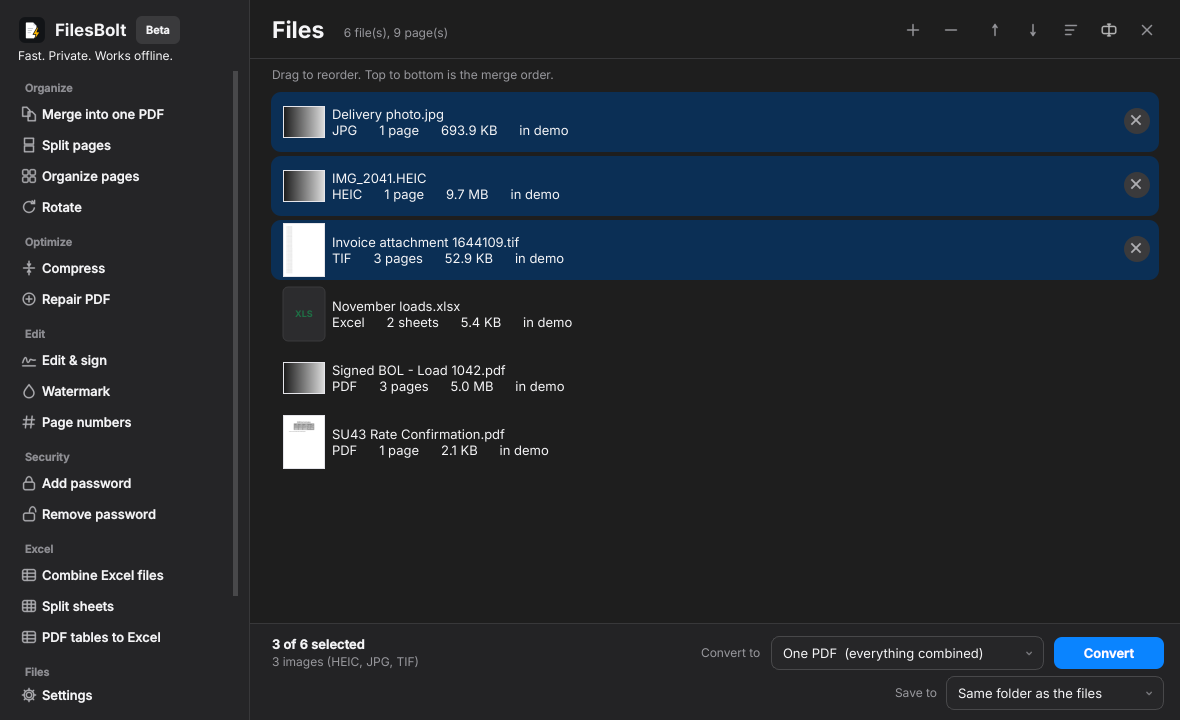
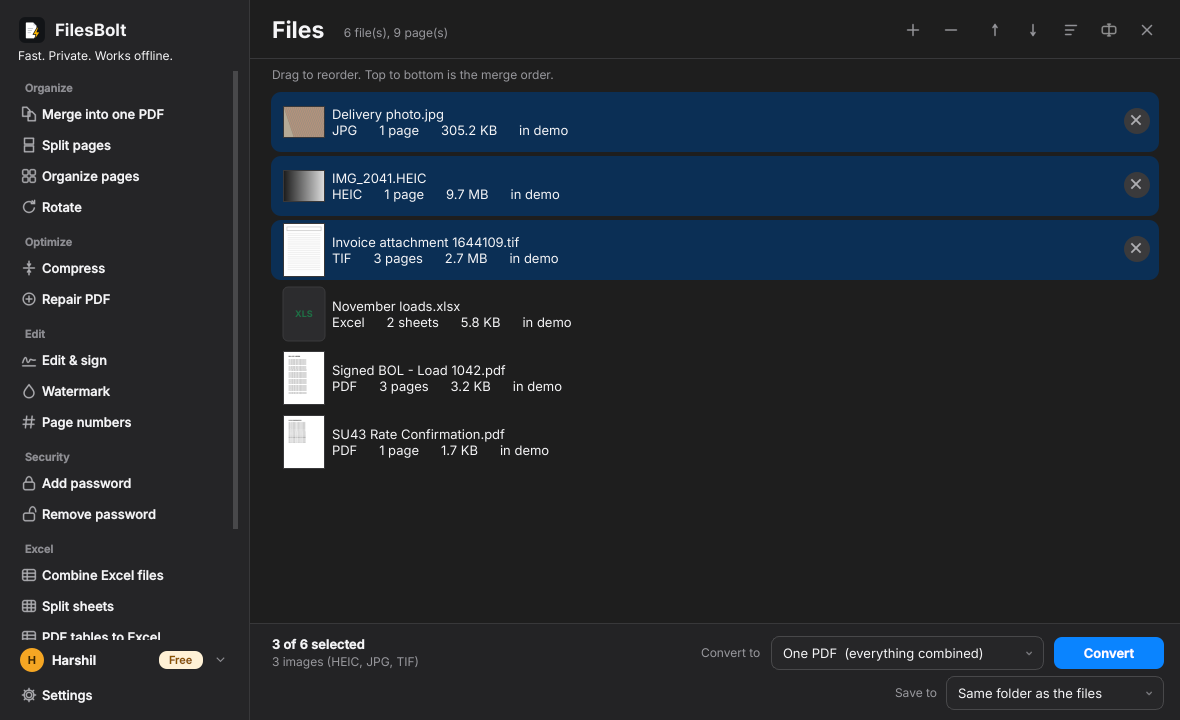
Website: new app screenshots (light/dark, no Beta, account chip) and free-during-launch wording
Claude-Session: https://claude.ai/code/session_01EBmYcRh5gMKsr6wtV9GQKY

diff --git a/index.html b/index.html
@@ -45,7 +45,7 @@
       <div class="cta">
         <p class="invite" data-invite hidden>A friend invited you. When you create your account in FilesBolt, enter invite code <strong data-invite-code></strong>.</p>
         <a class="btn" href="#" data-download>Download for Windows</a>
-        <p class="cta-meta">30 days free, then 10 free jobs every month. For Windows 10 and 11.</p>
+        <p class="cta-meta">Free during our launch, with every tool and no limits. For Windows 10 and 11.</p>
       </div>
     </div>
 
@@ -221,7 +221,7 @@
         <div><dt>Version</dt><dd data-ver>0.4.11</dd></div>
         <div><dt>Works on</dt><dd>Windows 10 and 11</dd></div>
         <div><dt>Size</dt><dd data-size>59 MB</dd></div>
-        <div><dt>Price</dt><dd>30 days free, then 10 jobs a month free</dd></div>
+        <div><dt>Price</dt><dd>Free during our launch</dd></div>
       </dl>
       <a class="btn btn-big" href="#" data-download>Download FilesBolt</a>
       <p class="dl-note">Run the setup and choose where to install it. Tick "Add to the right-click menu", then create your free account with your email. You don't need Python or anything else installed first.</p>
@@ -235,7 +235,7 @@
     <h2>Help</h2>
     <details>
       <summary>Do I need an account? What does it cost?</summary>
-      <p>Yes, a free account with your email. Every new account gets 30 days with every tool and no limits. After that, the free plan includes 10 jobs a month (one merge, compression or conversion is one job, however many files). Paid plans with unlimited jobs are coming soon. Your account only holds your email, your plan and how many jobs you've used. Your files are never uploaded.</p>
+      <p>Yes, a free account with your email. FilesBolt is free during our launch, with every tool and no limits. Paid plans will come later, and we'll email you well before anything changes. Your account only holds your email, your plan and how many jobs you've used. Your files are never uploaded.</p>
     </details>
     <details>
       <summary>Can I use my account on more than one PC?</summary>
